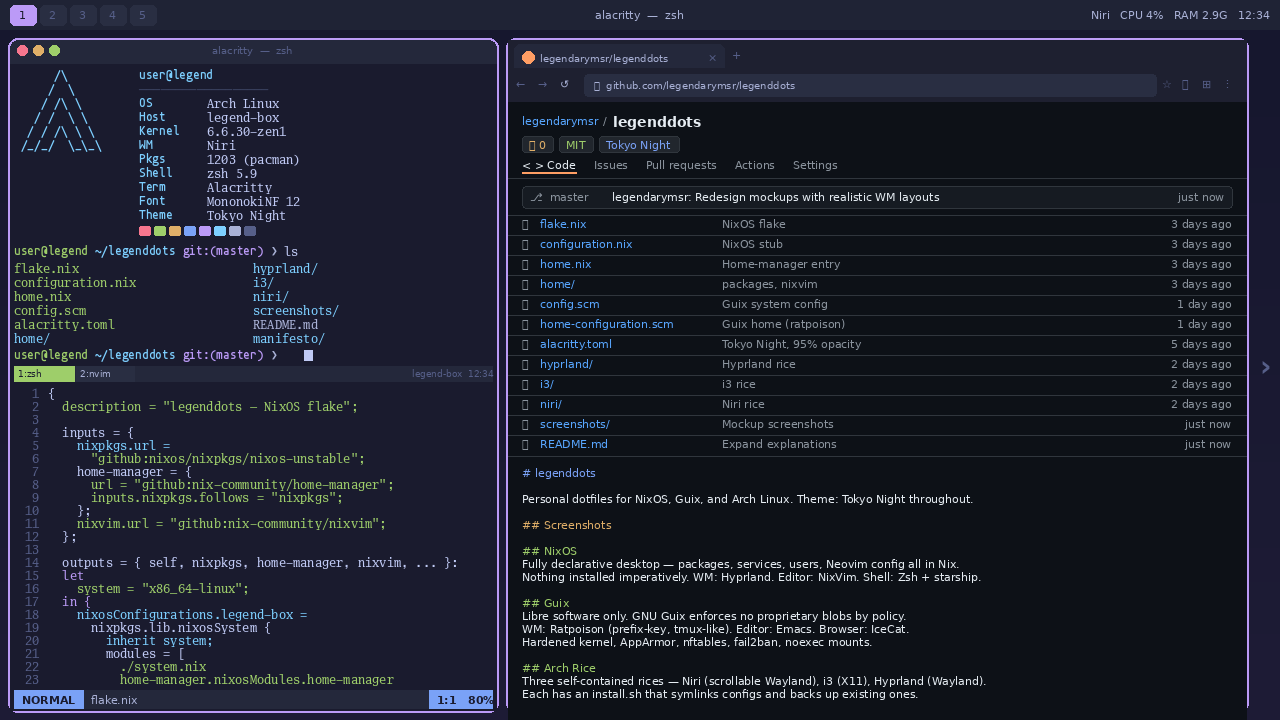
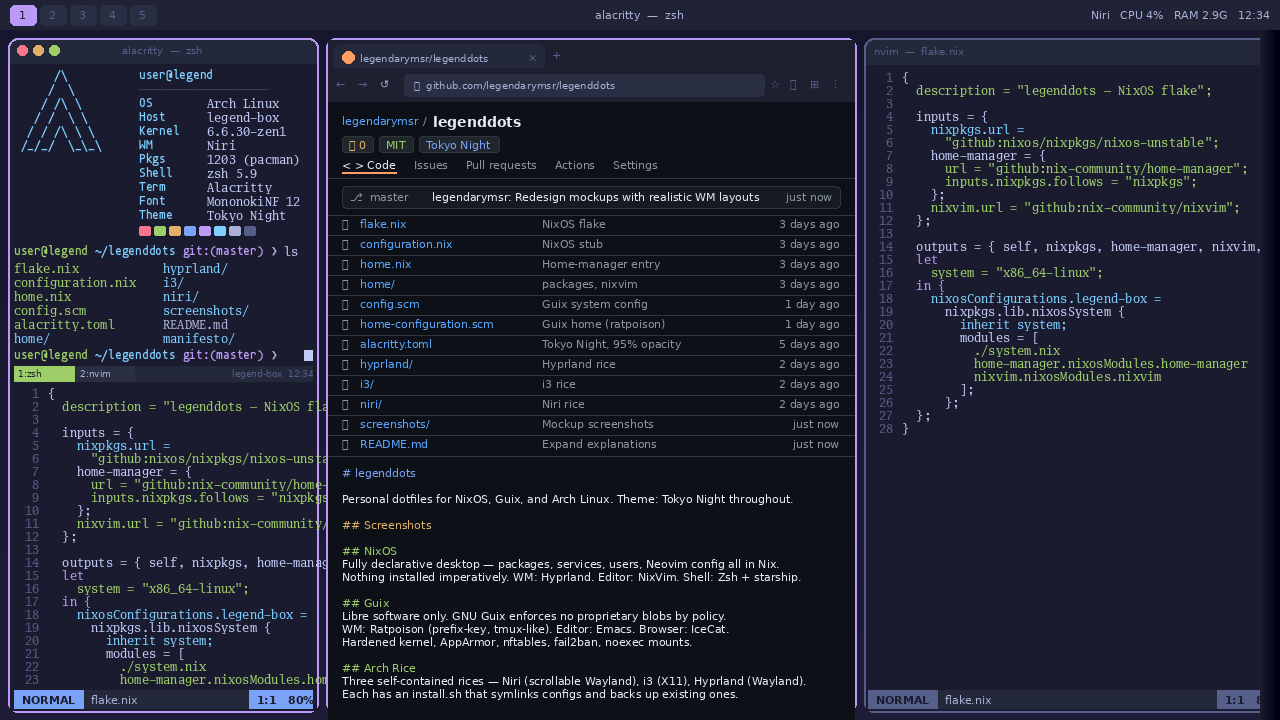
Differentiate rices: Niri 3-col scroll canvas, i3 split pane with git log

diff --git a/screenshots/gen.py b/screenshots/gen.py
@@ -889,31 +889,80 @@ def gen_hyprland(outpath, os_name, accent, pkgs, browser_fn):
     print(f"  {outpath}")
 
 
+GIT_LOG = [
+    ("0f33cb5", "Guix: proper EWW (plain text buffer, no chrome)"),
+    ("7bb4669", "Fill empty space: nvim pane + full README"),
+    ("2cc5275", "Mockups: visually distinct per WM"),
+    ("8591126", "Redesign mockups with realistic WM layouts"),
+    ("36a030e", "Add Tokyo Night mockup screenshots"),
+    ("ece5905", "Add screenshots section to README"),
+    ("569a8da", "Expand README with full rice explanations"),
+    ("064e725", "Fix ratpoison config, remove non-libre pkgs"),
+    ("2383261", "Harden Guix: noexec, SSH crypto, fail2ban"),
+    ("1fe5ba1", "Note brave is stable on NixOS"),
+    ("e81f009", "Mod+q exit, Mod+Shift+q close, Tab cycle"),
+]
+
+def draw_gitlog(d, fn, x, y, w, h):
+    """Simple git log --oneline output filling a terminal pane."""
+    d.rectangle([x, y, x+w, y+h], fill=rgb(BG))
+    px, py = x+6, y+6
+    lh = 14
+
+    d.text((px, py), "user@legend ~/legenddots git:(master) ❯ git log --oneline",
+           font=fn["mono_r"], fill=rgb(FG2))
+    py += lh + 2
+
+    for sha, msg in GIT_LOG:
+        if py + lh > y + h - 4:
+            break
+        d.text((px,      py), sha, font=fn["mono_b"], fill=rgb(YELLOW))
+        d.text((px + 58, py), msg, font=fn["mono_r"], fill=rgb(FG))
+        py += lh
+
+    py += 4
+    if py + lh <= y + h:
+        d.text((px, py), "user@legend ~/legenddots git:(master) ❯ ",
+               font=fn["mono_r"], fill=rgb(FG2))
+        cursor_x = px + tw(d, "user@legend ~/legenddots git:(master) ❯ ", fn["mono_r"])
+        d.rectangle([cursor_x, py+2, cursor_x+8, py+lh-2], fill=rgb(FG))
+
+
 def gen_i3(outpath, os_name, accent, pkgs):
+    """i3: polybar + LEFT SIDE SPLIT (terminal top / git log bottom) + browser right."""
     img = Image.new("RGB", (W, H), rgb(BG))
     d   = ImageDraw.Draw(img)
     fn  = make_fonts()
 
-    # polybar
     bar_h = polybar(d, fn, accent=accent)
     wallpaper(img, 0, bar_h, W, H-bar_h)
 
-    SMALL_GAP = 4
-    tx, ty = SMALL_GAP, bar_h+SMALL_GAP
-    tw_, th = TW+GAP, H-bar_h-SMALL_GAP*2
+    SG = 4   # i3-gaps small gap
+    LEFT_W = 470
+    RIGHT_X = SG*2 + LEFT_W
+    RIGHT_W = W - RIGHT_X - SG
+    FULL_H  = H - bar_h - SG*2
 
-    # terminal window — sharp
-    cx, cy, cw, ch = i3_window(d, fn, tx, ty, tw_, th,
+    # Left side: two stacked windows (i3 horizontal split)
+    TOP_H = int(FULL_H * 0.55)
+    BOT_H = FULL_H - TOP_H - SG
+
+    # Top-left: terminal with fastfetch
+    cx, cy, cw, ch = i3_window(d, fn, SG, bar_h+SG, LEFT_W, TOP_H,
                                 "alacritty  —  zsh", accent, active=True)
     draw_terminal(d, fn, cx+2, cy+2, cw-4, ch-4, os_name, "i3", pkgs)
 
-    # browser window — sharp
-    bx = SMALL_GAP*2+TW+GAP
-    bw = W-bx-SMALL_GAP
-    bh = th
-    cx2, cy2, cw2, ch2 = i3_window(d, fn, bx, ty, bw, bh,
-                                    "Brave  —  github.com", accent, active=False)
-    pcx, pcy, pcw, pch = draw_brave(d, fn, cx2, cy2, cw2, ch2)
+    # Bottom-left: git log
+    bly = bar_h + SG + TOP_H + SG
+    cx2, cy2, cw2, ch2 = i3_window(d, fn, SG, bly, LEFT_W, BOT_H,
+                                    "alacritty  —  git log", accent, active=False)
+    draw_gitlog(d, fn, cx2, cy2+2, cw2, ch2-2)
+
+    # Right: browser (full height)
+    cx3, cy3, cw3, ch3 = i3_window(d, fn, RIGHT_X, bar_h+SG, RIGHT_W, FULL_H,
+                                    "Brave  —  github.com/legendarymsr/legenddots",
+                                    accent, active=False)
+    pcx, pcy, pcw, pch = draw_brave(d, fn, cx3, cy3, cw3, ch3)
     draw_github(d, fn, pcx, pcy, pcw, pch)
 
     img.save(outpath)
@@ -921,6 +970,7 @@ def gen_i3(outpath, os_name, accent, pkgs):
 
 
 def gen_niri(outpath, os_name, accent, pkgs):
+    """Niri: THREE scrollable columns — terminal | browser | partial nvim clipped at edge."""
     img = Image.new("RGB", (W, H), rgb(BG))
     d   = ImageDraw.Draw(img)
     fn  = make_fonts()
@@ -929,20 +979,49 @@ def gen_niri(outpath, os_name, accent, pkgs):
                    right_txt="  Niri   CPU 4%   RAM 2.9G   12:34 ")
     wallpaper(img, 0, bar_h, W, H-bar_h)
 
-    # Niri: column layout hint — show arrow on right edge
-    tx, ty = GAP, bar_h+GAP
-    tw_, th = TW, H-bar_h-GAP*2
-    cx, cy, cw, ch = hyprland_window(d, fn, tx, ty, tw_, th,
+    ty = bar_h + GAP
+    th = H - bar_h - GAP*2
+
+    COL1 = 310   # terminal
+    COL2 = 530   # browser
+    # COL3 starts at GAP+COL1+GAP+COL2+GAP = 8+310+8+530+8 = 864
+    # visible width = W-8-864 = 408 of a 420-wide window (clipped naturally)
+    COL3_START = GAP + COL1 + GAP + COL2 + GAP
+    COL3_FULL  = 420
+    COL3_VIS   = W - COL3_START   # no right gap — clips at screen edge
+
+    # column 1 — terminal
+    cx, cy, cw, ch = hyprland_window(d, fn, GAP, ty, COL1, th,
                                       "alacritty  —  zsh", accent)
     draw_terminal(d, fn, cx+2, cy+2, cw-4, ch-4, os_name, "Niri", pkgs)
 
-    bx = GAP*2+TW
-    bw = W-bx-GAP
-    # scroll indicator — subtle arrow hinting at more columns →
-    d.text((W-20, H//2-10), "›", font=fnt(SANS_B, 28), fill=rgb(DIM))
-    hyprland_window(d, fn, bx, ty, bw-24, th, "Brave", accent)
-    pcx, pcy, pcw, pch = draw_brave(d, fn, bx+2, ty+2, bw-28, th-4)
+    # column 2 — browser
+    bx = GAP + COL1 + GAP
+    hyprland_window(d, fn, bx, ty, COL2, th, "Brave", accent)
+    pcx, pcy, pcw, pch = draw_brave(d, fn, bx+2, ty+2, COL2-4, th-4)
     draw_github(d, fn, pcx, pcy, pcw, pch)
+
+    # column 3 — neovim, partially clipped (shows scroll nature)
+    # draw a full window but clip it at the right edge by only drawing within [COL3_START, W]
+    nx3 = COL3_START
+    # window border + bg
+    d.rounded_rectangle([nx3, ty, nx3+COL3_FULL, ty+th],
+                         radius=10, outline=rgb(DIM), width=2, fill=rgb(BG2))
+    # title bar
+    d.rounded_rectangle([nx3+2, ty+2, nx3+COL3_FULL-2, ty+26],
+                         radius=9, fill=rgb(BG3))
+    d.rectangle([nx3+2, ty+15, nx3+COL3_FULL-2, ty+26], fill=rgb(BG3))
+    d.text((nx3+10, ty+7), "nvim  —  flake.nix", font=fn["title"], fill=rgb(DIM))
+    # content area
+    d.rectangle([nx3+2, ty+27, nx3+COL3_FULL-2, ty+th-2], fill=rgb(BG))
+    draw_nvim_pane(d, fn, nx3+4, ty+28, COL3_FULL-8, th-32,
+                   filename="flake.nix", accent=DIM)
+
+    # "more to the right" scroll shadow at right edge
+    for i in range(20):
+        alpha = int(200 * i / 20)
+        shade = tuple(max(0, c - alpha//6) for c in rgb(BG))
+        d.line([W-20+i, bar_h, W-20+i, H], fill=shade)
 
     img.save(outpath)
     print(f"  {outpath}")
